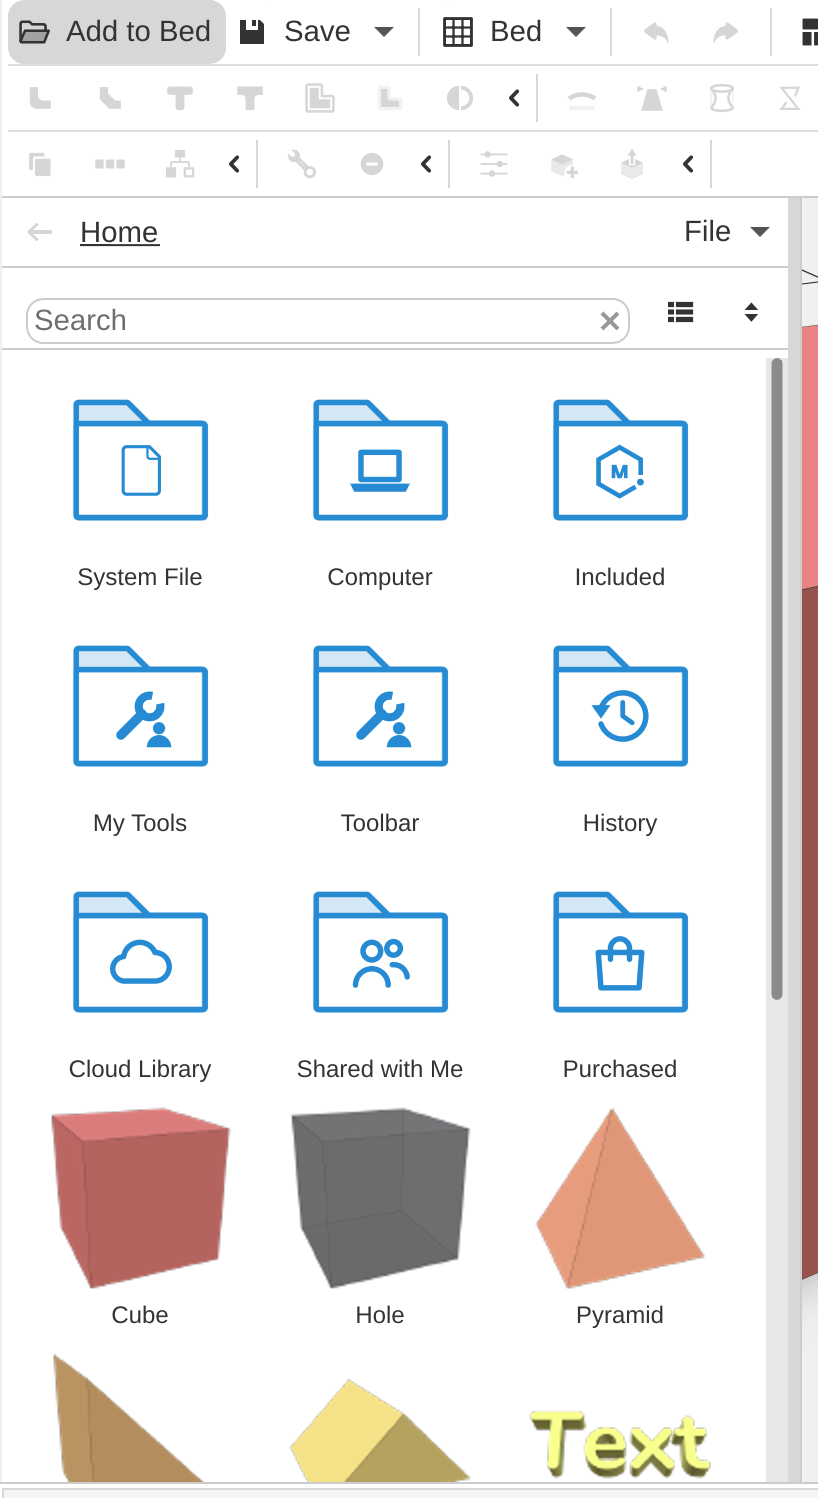
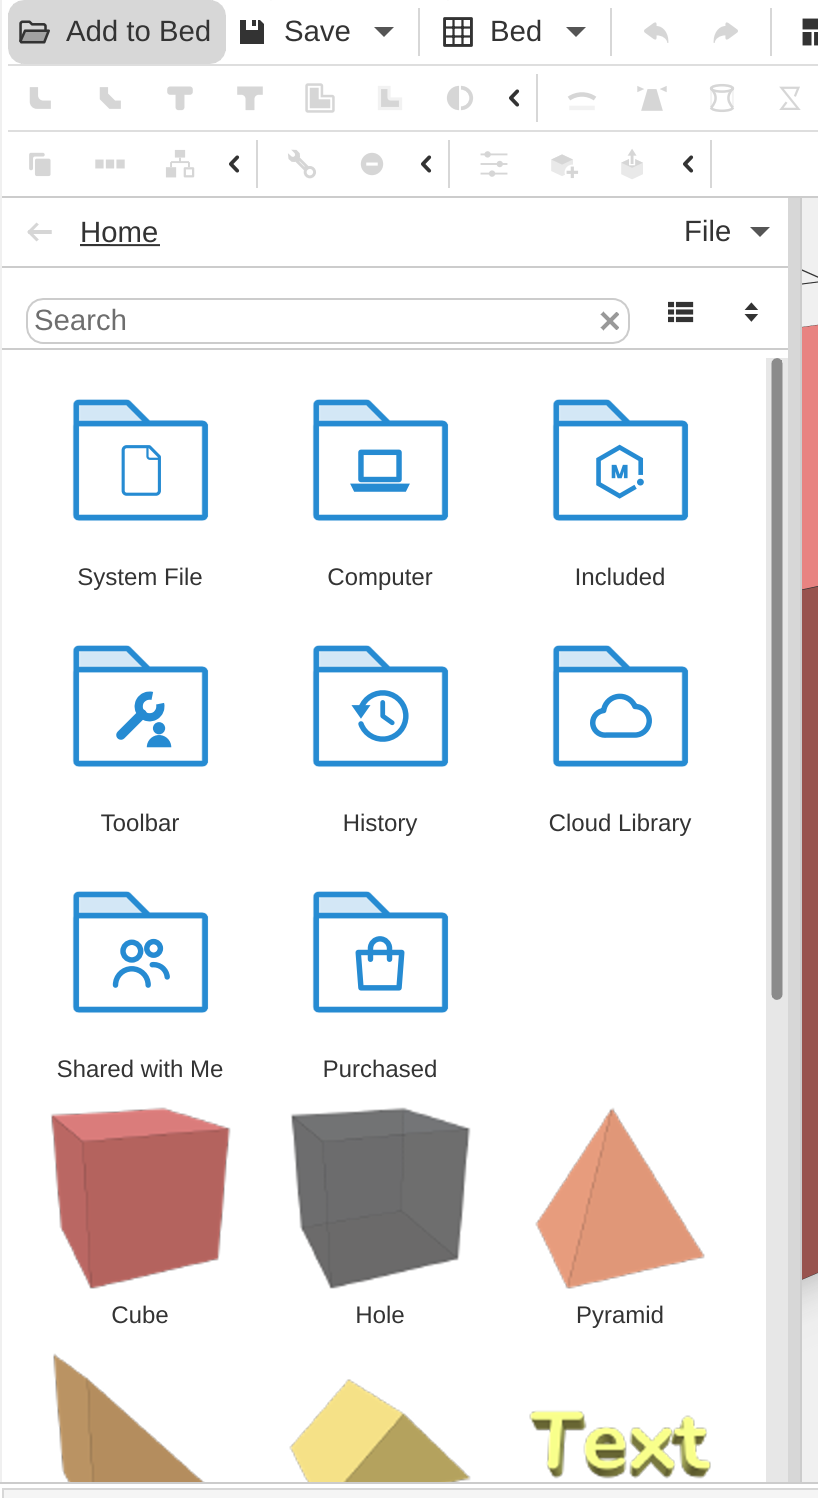
Help: tools live in any Library folder, with no My Tools folder; Save as Tool asks where to save, built-in tools are in Included > Tools, and a tool goes on the toolbar through Add to Toolbar or a drag onto the Library's Toolbar folder; the Add to Bed pictures show the Library without a My Tools row

diff --git a/docs/Help/workspace/node-graphs.md b/docs/Help/workspace/node-graphs.md
@@ -39,7 +39,7 @@ Scroll the mouse wheel to zoom, and drag with the right or middle mouse button t
 
 ## Add and Delete Nodes
 
-- Press **Shift+A**, or right-click on empty space, to open the **Add Node** menu at the pointer. It lists **Shapes**, **2D Shapes**, **Image** (Image, Transparency Mask, Intensity Mask, Color Mask, Palette, Mask From Field, Pixel Info, Analyze Picture and Trace Mask), **Operations** (sorted into the toolbar's groups - **Transform**, **Placement**, **Round & Offset**, **Deform**, **Image**, **Path**, **Merge**, **Duplication** and **Mesh** - with **Set Color**, which is in no group, directly under Operations), **Math** (Separate XYZ, Combine XYZ, Math, Map Range, Vector Math, Boolean Math and Time), **Copies** (Line Copies, Circle Copies, Step Copies, Curve Copies, Adjust Copies and Place on Copies), **Sheet**, **Selection** (Position, Compare and Inside Box), **Flow** (Switch and For Each) and **My Tools**; type to search. In the editor's **Add** menu each toolbar group is a submenu of Operations, so Linear Extrude is at **Add > Operations > Path**; the Shift+A menu shows the groups as headings inside Operations. Typing still finds any node by its name, whatever group it is in. The node you pick lands at the pointer, unwired and selected. If a node is selected and the new one can take its result, the new node goes in after it instead - to its right, wired to it and to whatever it fed - so picking Linear Extrude with a Circle selected gives *Circle -> Linear Extrude -> Output*.
+- Press **Shift+A**, or right-click on empty space, to open the **Add Node** menu at the pointer. It lists **Shapes**, **2D Shapes**, **Image** (Image, Transparency Mask, Intensity Mask, Color Mask, Palette, Mask From Field, Pixel Info, Analyze Picture and Trace Mask), **Operations** (sorted into the toolbar's groups - **Transform**, **Placement**, **Round & Offset**, **Deform**, **Image**, **Path**, **Merge**, **Duplication** and **Mesh** - with **Set Color**, which is in no group, directly under Operations), **Math** (Separate XYZ, Combine XYZ, Combine Transform, Separate Transform, Math, Map Range, Vector Math, Boolean Math and Time), **Copies** (Line Copies, Circle Copies, Circle Axis, Step Copies, Transform Of, Curve Copies, Adjust Copies and Place on Copies), **Handles** (Arrow Handle, Dial Handle, Radius Handle and Point Handle), **Sheet**, **Selection** (Position, Compare and Inside Box), **Flow** (Switch and For Each), **My Tools** (the tools you saved that are on your toolbar or your Favorites bar) and **Examples** (the tools that come with MatterCAD, even one you added to the toolbar); type to search. In the editor's **Add** menu each toolbar group is a submenu of Operations, so Linear Extrude is at **Add > Operations > Path**; the Shift+A menu shows the groups as headings inside Operations. Typing still finds any node by its name, whatever group it is in. The node you pick lands at the pointer, unwired and selected. If a node is selected and the new one can take its result, the new node goes in after it instead - to its right, wired to it and to whatever it fed - so picking Linear Extrude with a Circle selected gives *Circle -> Linear Extrude -> Output*.
 - Drag a noodle from a socket and let go on empty space to open the Add Node menu there. It lists only the nodes that can take that noodle, and the one you pick lands wired to it.
 - With a graph shown, the toolbar's operation buttons add a node to the graph you are looking at.
 - Drag an object from the scene tree onto the editor to move it into the graph, or drag an item from the Library to add a copy.
@@ -119,7 +119,7 @@ For example, to make a hole half the width of a part: wire a Bounds' **Size** th
 
 ### Example: Hold Z to 0
 
-**Hold Z to 0** (Add Node > Examples, My Tools in the Library, or the toolbar's **My Tools** group once you add it there) moves a part so its lowest point sits at Z 0, the bed, however the part changes. Select a part and use the tool: the part is wrapped in the graph and comes down (or up) to rest on the bed, keeping its X and Y.
+**Hold Z to 0** (Add Node > Examples, **Included > Tools** in the Library, or the toolbar once you add it there) moves a part so its lowest point sits at Z 0, the bed, however the part changes. Select a part and use the tool: the part is wrapped in the graph and comes down (or up) to rest on the bed, keeping its X and Y.
 
 Open its graph to see how it works: a **Bounds** measures the part, **Separate XYZ** takes the Z of the Bounds' **Min** (the part's lowest point), a **Math** multiplies it by -1, and **Combine XYZ** makes that the Z of a **Translate**'s **Translation**. Change the part inside, make it taller or move it, and the graph lowers it again.
 
@@ -157,7 +157,7 @@ A run whose colours are all unticked masks nothing, so that item makes no part.
 
 ### Example: Colour Layers (Nodes)
 
-**Colour Layers (Nodes)** (Add Node > Examples, or My Tools in the Library) turns a colour picture into a stack of layers, one per colour, for printing with a filament change at each layer.
+**Colour Layers (Nodes)** (Add Node > Examples, or **Included > Tools** in the Library) turns a colour picture into a stack of layers, one per colour, for printing with a filament change at each layer.
 
 1. Add it and pick a picture in its **Image** section.
 2. Set **Colors** to how many colours the picture has, background included. Each colour but the background gets a **Layer** section.
@@ -312,14 +312,16 @@ A graph is sealed: a formula inside it sees only what is wired to its card's **V
 - To read objects in the scene outside the graph, wire the Input node's **Scene** socket to this node's Variables socket. Otherwise: *... isn't wired to this node. Wire the Input node's Scene socket to this node's Variables socket to use names from the scene.*
 - A **Sheet** node works the same way: wire its Variables socket to each node whose formulas read its cells. A sheet has no result, so it never goes into the Output.
 
-## Save as Tool and My Tools
+## Save as Tool
 
-Right-click the object and choose **Save as Tool** to keep a copy you can use in any design. Tools are stored in **My Tools** in the Library.
+Right-click the object and choose **Save as Tool** to keep a copy you can use in any design. MatterCAD asks where to save it and what to call it, as **Save As** does, starting with the graph's name. A tool is a design file marked as a tool, so it can go in any folder of your Library. You can't save over a design that is open in a tab; pick another name or close that tab first.
 
 - A tool that **makes** a shape (no object inputs) is also added to the **Favorites** bar. Drag it into your design like a primitive.
-- A tool that **works on** objects (it has object inputs) gets a button in the toolbar's **My Tools** group. Select a part and click the button to run the tool on it.
+- A tool that **works on** objects (it has object inputs) can go on the toolbar. In the Library, right-click it, choose **Add to Toolbar** and pick a group, or drag it onto one of the groups in the Library's **Toolbar** folder. **My Tools** is the toolbar's own group for your tools; it shows once you add one. Then select a part and click the tool's button to run it on the part. Only tools can go on the toolbar: anything else is refused with *Only tools can go on the toolbar. Drag a tool from your Library.*
 
-Each use adds an independent copy, so changing one never changes the others. Tools also appear under My Tools in the Add Node menu.
+The tools that come with MatterCAD, such as **Hold Z to 0**, are in the Library under **Included > Tools**, and can go on the toolbar the same way.
+
+Each use adds an independent copy, so changing one never changes the others. The tools on your toolbar and your Favorites bar also appear under **My Tools** in the Add Node menu.
 
 ## Graphs Inside Graphs
 

diff --git a/docs/Help/workspace/menus-and-toolbar.md b/docs/Help/workspace/menus-and-toolbar.md
@@ -55,7 +55,7 @@ The toolbar runs across the top of each design tab. When the window is too narro
 - **Undo** and **Redo**. Hover over one to see the step it takes back or does again, for example "Undo - Move". See [Undo and Redo](undo-redo.md).
 - Buttons that work on the selected parts: **Arrange All Parts**, **Lay Flat**, **Rebuild**, **Group**, **Ungroup**, **Convert to Nodes**, **Duplicate** and **Remove**.
 - The operation groups: **Transform**, **Placement**, **Round & Offset**, **Deform**, **Image**, **Path**, **Merge**, **Duplication**, **Mesh** and **Constraints**.
-- **My Tools**, the operation tools you saved yourself, when you have any.
+- **My Tools**, the tools you added to the toolbar yourself, when you have added any. See [Save as Tool](node-graphs.md#save-as-tool).
 - **Tools**, at the end (below).
 
 Hover over any button to see its name, with its key when it has one, for example "Group (G)". A greyed-out button can't be used on what is selected; hover over it to see what it needs. While you hover, the status bar at the bottom of the window shows a hint for the button, such as its shortcut.

diff --git a/docs/Help/web/phone.md b/docs/Help/web/phone.md
@@ -43,7 +43,7 @@ The grid closes when you tap a shape, the library tile or an empty spot in it. T
 
 ## Tools
 
-Tap **Tools** to open a list over the 3D view with every operation, each with its icon and its name, under the same group headings the toolbar uses. The operations that sit in no group come first, under **General**, and the tools you saved yourself come last, under **My Tools**.
+Tap **Tools** to open a list over the 3D view with every operation, each with its icon and its name, under the same group headings the toolbar uses. The operations that sit in no group come first, under **General**, and the tools you added to the toolbar's **My Tools** group come last, under **My Tools**. A tool you added to another group is listed in that group.
 
 - Tap an operation to use it on what you have selected. The list closes.
 - An operation that can't be used on what you have selected is faded, with a line under its name saying what it needs you to select.

diff --git a/docs/Help/web/adding-parts.md b/docs/Help/web/adding-parts.md
@@ -20,7 +20,7 @@ Click **Add to Bed** in the toolbar. The library opens over the left side of the
 On a phone, tap **Add**, then the last tile, the open folder (**Add from Library…**). Drag an item onto the bed, or hold a finger on it and choose **Add to Bed**.
 
 <!-- AUTO_IMAGE: type=shot id=web-add-to-bed -->
-![The editor on a design's page on the MatterCAD website with the Add to Bed library open over the left side, listing System File, Included, My Tools, Toolbar, My Designs, Shared with Me and Purchased beside the design](https://matterhackers.github.io/MatterCAD_Docs/assets/web-add-to-bed.png)
+![The editor on a design's page on the MatterCAD website with the Add to Bed library open over the left side, listing System File, Included, Toolbar, My Designs, Shared with Me and Purchased beside the design](https://matterhackers.github.io/MatterCAD_Docs/assets/web-add-to-bed.png)
 
 ### Included
 

diff --git a/docs/Help/getting-started/creating-new-objects.md b/docs/Help/getting-started/creating-new-objects.md
@@ -10,7 +10,7 @@ keywords: blank design, add shape, start designing, first design, make something
 Most designs start from simple shapes. You add them, size them, place them, and then combine or reshape them with operations.
 
 <!-- AUTO_IMAGE: type=shot id=gs-add-to-bed-popup -->
-![The Add to Bed button and the library it opens over the bed, at its top level: System File, Computer, Included, My Tools, Toolbar, History, Cloud Library, Shared with Me and Purchased](https://matterhackers.github.io/MatterCAD_Docs/assets/gs-add-to-bed-popup.png)
+![The Add to Bed button and the library it opens over the bed, at its top level: System File, Computer, Included, Toolbar, History, Cloud Library, Shared with Me and Purchased](https://matterhackers.github.io/MatterCAD_Docs/assets/gs-add-to-bed-popup.png)
 
 ## Start a New Design
 

diff --git a/docs/Help/operations/image/image-converter.md b/docs/Help/operations/image/image-converter.md
@@ -25,7 +25,7 @@ Image Converter turns a picture into a solid part. It traces the shapes in the p
 
 Undo brings back the picture in one step.
 
-You can also start without a picture: **Image Converter** in the Library's **3D Primitives** folder, or **Image Converter (Nodes)** in **My Tools**, adds one that starts from a sample picture you then replace.
+You can also start without a picture: **Image Converter** in the Library's **3D Primitives** folder, or **Image Converter (Nodes)** in the Library's **Included > Tools** folder, adds one that starts from a sample picture you then replace.
 
 ## Settings
 
